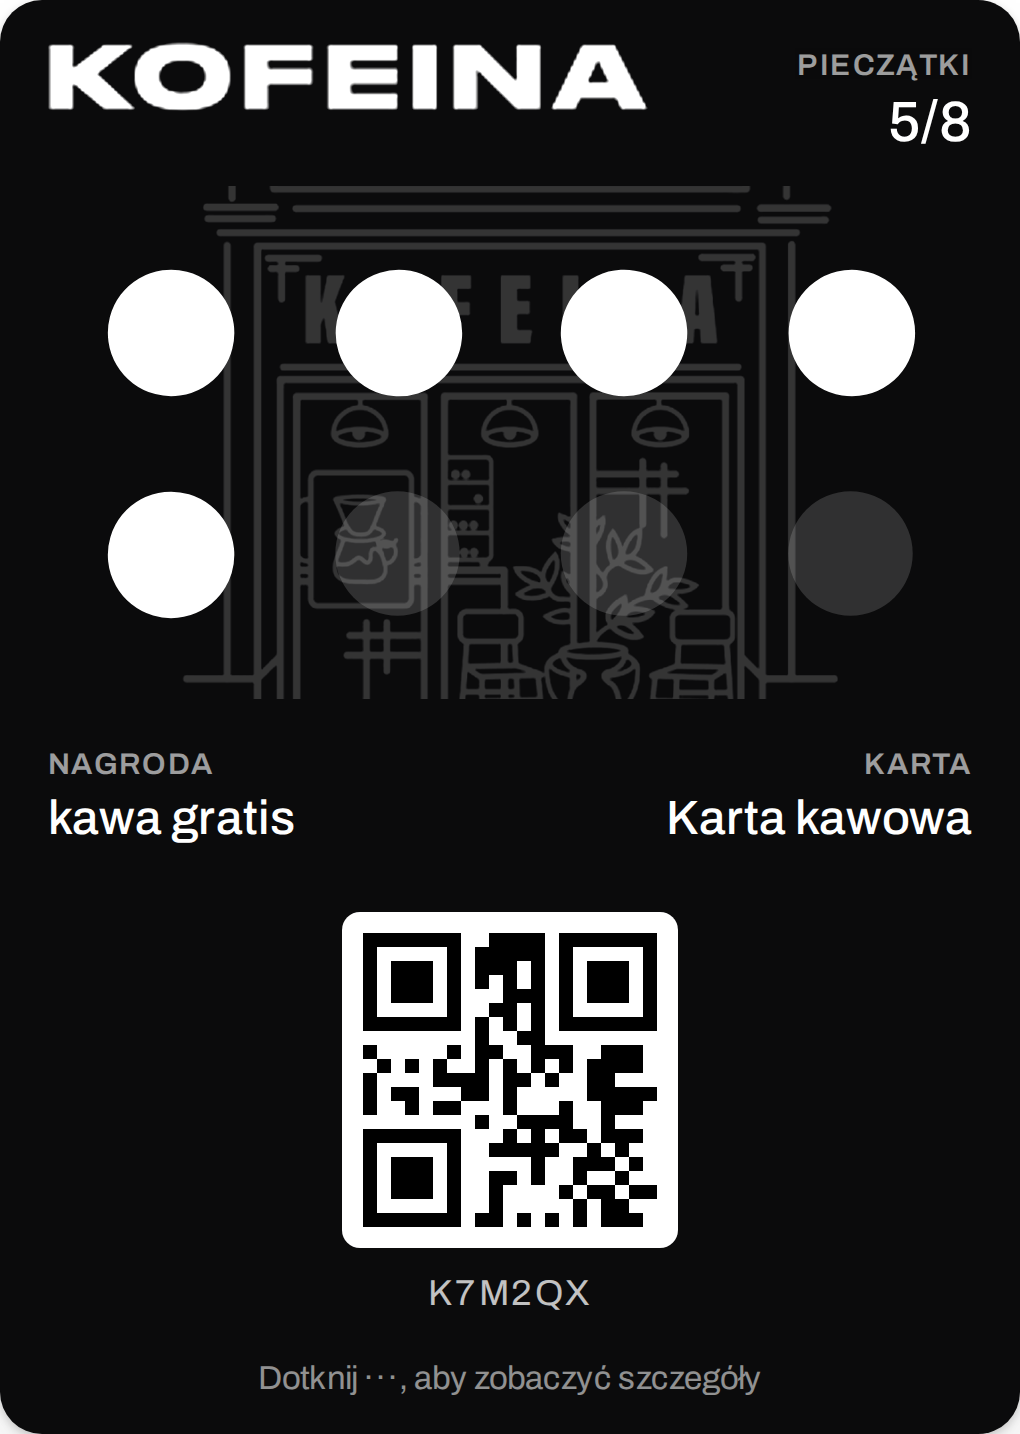
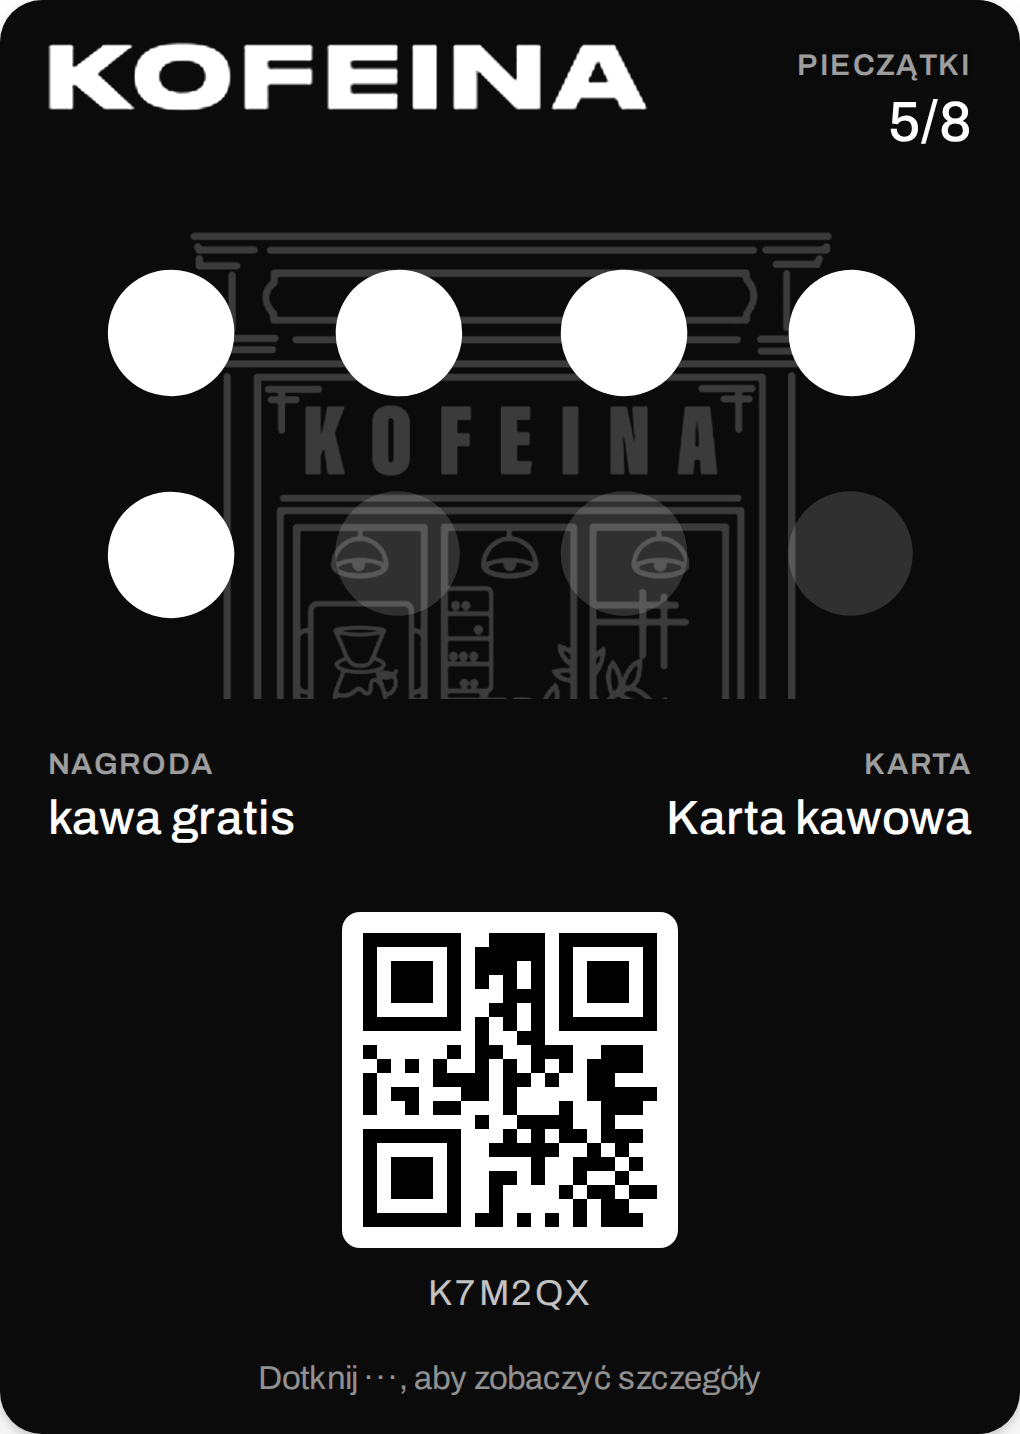
Kofeina dark card: storefront moved so its KOFEINA sign shows between the stamp rows
Claude-Session: https://claude.ai/code/session_015Jxz3uYVBeA1BfejC8Sdvv

Changed region(s): [[0.1824, 0.1227, 0.8206, 0.4909], [0.1824, 0.4603, 0.2735, 0.4909]]

diff --git a/print/example-cards.html b/print/example-cards.html
@@ -33,8 +33,9 @@ h1{font-size:28px;margin:0 0 6px}
   const OWL = await dataUrl('kit-sowa/art/sowa-owl-brown.png');
   const ORSO_LOGO = await dataUrl('kit-orsonero/art/orsonero-logo.svg');
   const ORSO_STAMP = await dataUrl('kit-orsonero/art/orsonero-stamp.svg');
-  // A strip with a big, faint logo in the middle: the stamps sit on top of it.
-  const watermark = (img, bg, opacity, w = 1020, h = 450, size = 400) => svgUrl(`<svg xmlns="http://www.w3.org/2000/svg" xmlns:xlink="http://www.w3.org/1999/xlink" viewBox="0 0 ${w} ${h}"><rect width="${w}" height="${h}" fill="${bg}"/><image href="${img}" xlink:href="${img}" x="${(w - size) / 2}" y="${(h - size) / 2}" width="${size}" height="${size}" opacity="${opacity}" preserveAspectRatio="xMidYMid meet"/></svg>`);
+  // A strip with a big, faint logo in the middle: the stamps sit on top of it. `y` moves it
+  // (Kofeina: the storefront's KOFEINA sign sits between the two rows of stamps).
+  const watermark = (img, bg, opacity, w = 1020, h = 450, size = 400, y = (h - size) / 2) => svgUrl(`<svg xmlns="http://www.w3.org/2000/svg" xmlns:xlink="http://www.w3.org/1999/xlink" viewBox="0 0 ${w} ${h}"><rect width="${w}" height="${h}" fill="${bg}"/><image href="${img}" xlink:href="${img}" x="${(w - size) / 2}" y="${y}" width="${size}" height="${size}" opacity="${opacity}" preserveAspectRatio="xMidYMid meet"/></svg>`);
   // Sowa's feather pattern (as on cukierniasowa.pl): pointed scales in offset rows, in cream.
   const W = 78, H = 44, feather = (x, y) => `M${x} ${y}C${x} ${y + H * .55} ${x + W * .28} ${y + H * .9} ${x + W / 2} ${y + H}C${x + W * .72} ${y + H * .9} ${x + W} ${y + H * .55} ${x + W} ${y}`;
   const scales = svgUrl(`<svg xmlns="http://www.w3.org/2000/svg" viewBox="0 0 1020 450"><defs><pattern id="s" width="${W}" height="${H * 2}" patternUnits="userSpaceOnUse"><path d="${[feather(0, 0), feather(-W / 2, H), feather(W / 2, H), feather(0, H * 2), feather(-W / 2, -H), feather(W / 2, -H)].join('')}" fill="none" stroke="#E4D6C2" stroke-width="2.2" stroke-linecap="round"/></pattern></defs><rect width="1020" height="450" fill="#FBF6EE"/><rect width="1020" height="450" fill="url(#s)"/></svg>`);
@@ -67,7 +68,7 @@ h1{font-size:28px;margin:0 0 6px}
       { name: 'kofeina-simple', label: 'Prosta: logo, czarne kropki', stamps: 6,
         card: { ...KOF, stampsNeeded: 10, color: '#FFFFFF', ink: '#0B0B0C', strip: '#FFFFFF', logo: 'kit-kofeina/art/kofeina-logo-black.png', stampImage: dot('#0B0B0C') } },
       { name: 'kofeina-dark', label: 'Czarna: ich kawiarnia w tle, białe kropki', stamps: 5,
-        card: { ...KOF, stampsNeeded: 8, color: '#0B0B0C', ink: '#FFFFFF', strip: '#0B0B0C', logo: 'kit-kofeina/art/kofeina-logo-white.png', stripImage: watermark(STORE_W, '#0B0B0C', .17, 1020, 450, 600), stampImage: dot('#FFFFFF') } }
+        card: { ...KOF, stampsNeeded: 8, color: '#0B0B0C', ink: '#FFFFFF', strip: '#0B0B0C', logo: 'kit-kofeina/art/kofeina-logo-white.png', stripImage: watermark(STORE_W, '#0B0B0C', .2, 1020, 450, 600, 40), stampImage: dot('#FFFFFF') } }
     ] },
     { id: 'orsonero', lang: 'en', title: 'Orsonero Coffee', note: 'Their logo at the top left, the grey and white awning behind the stamps; every stamp is the bear in a circle.', cards: [
       { name: 'orsonero-stripes', label: 'Their logo top left, awning stripes, bear stamps', stamps: 5,
